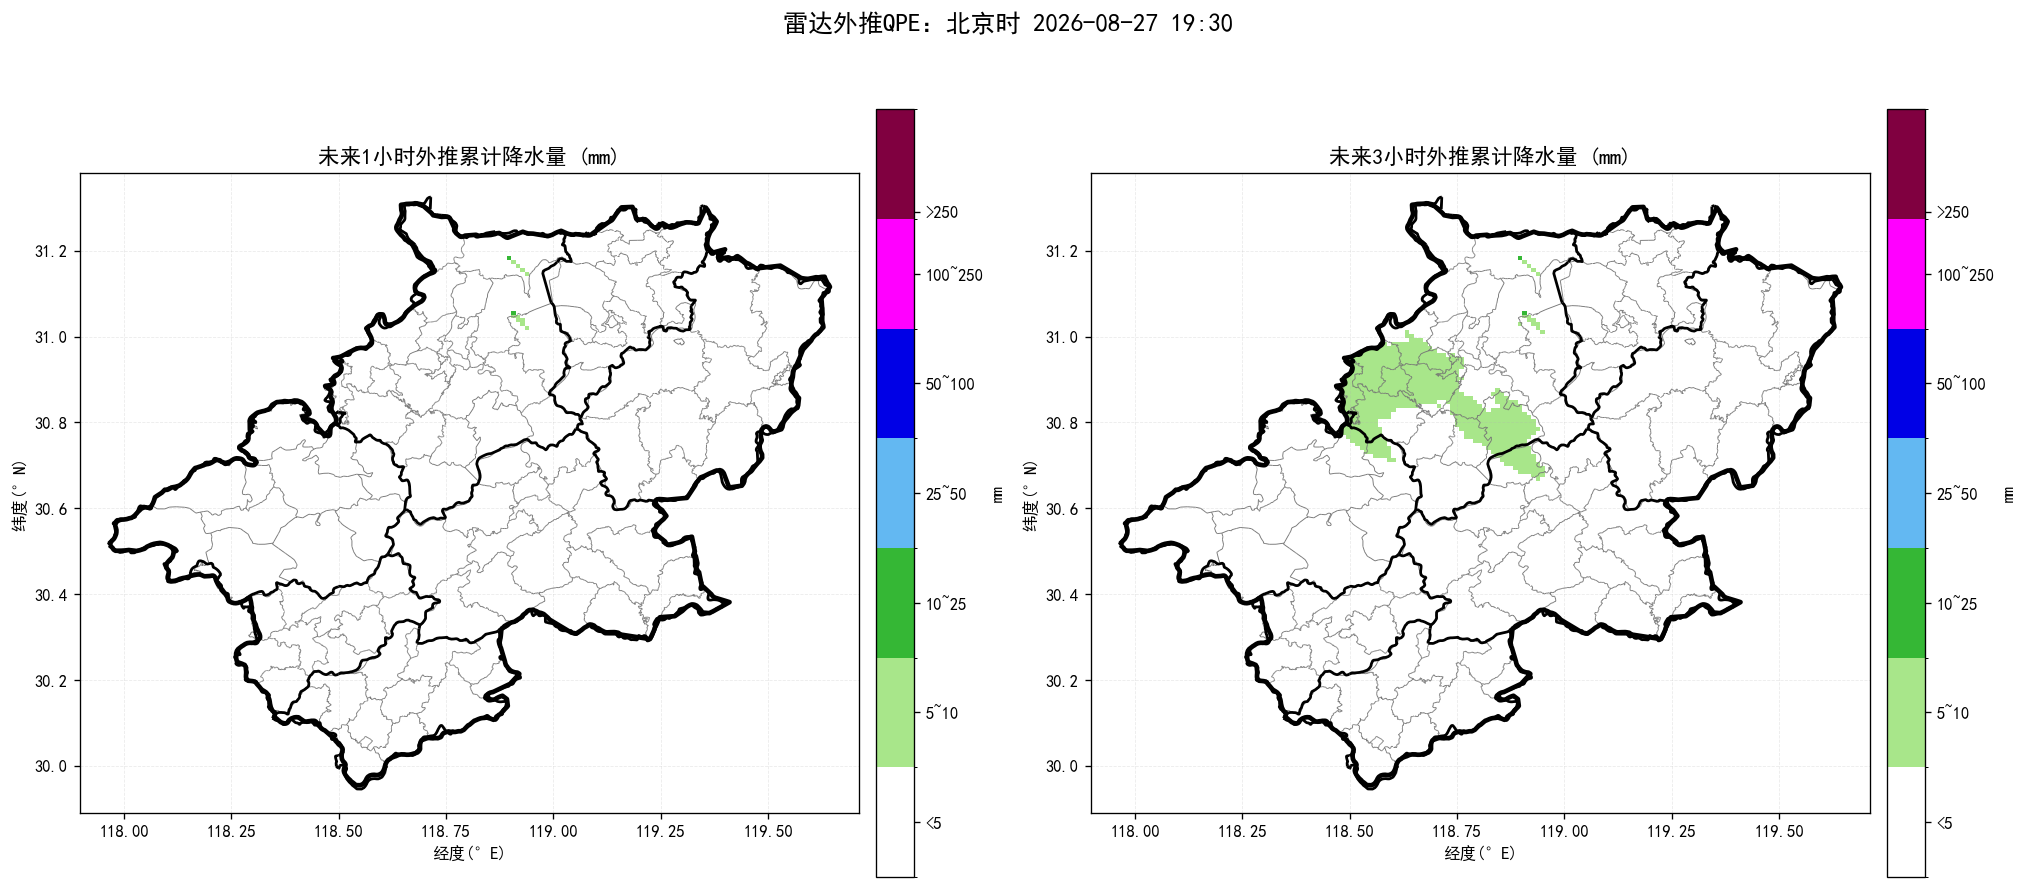
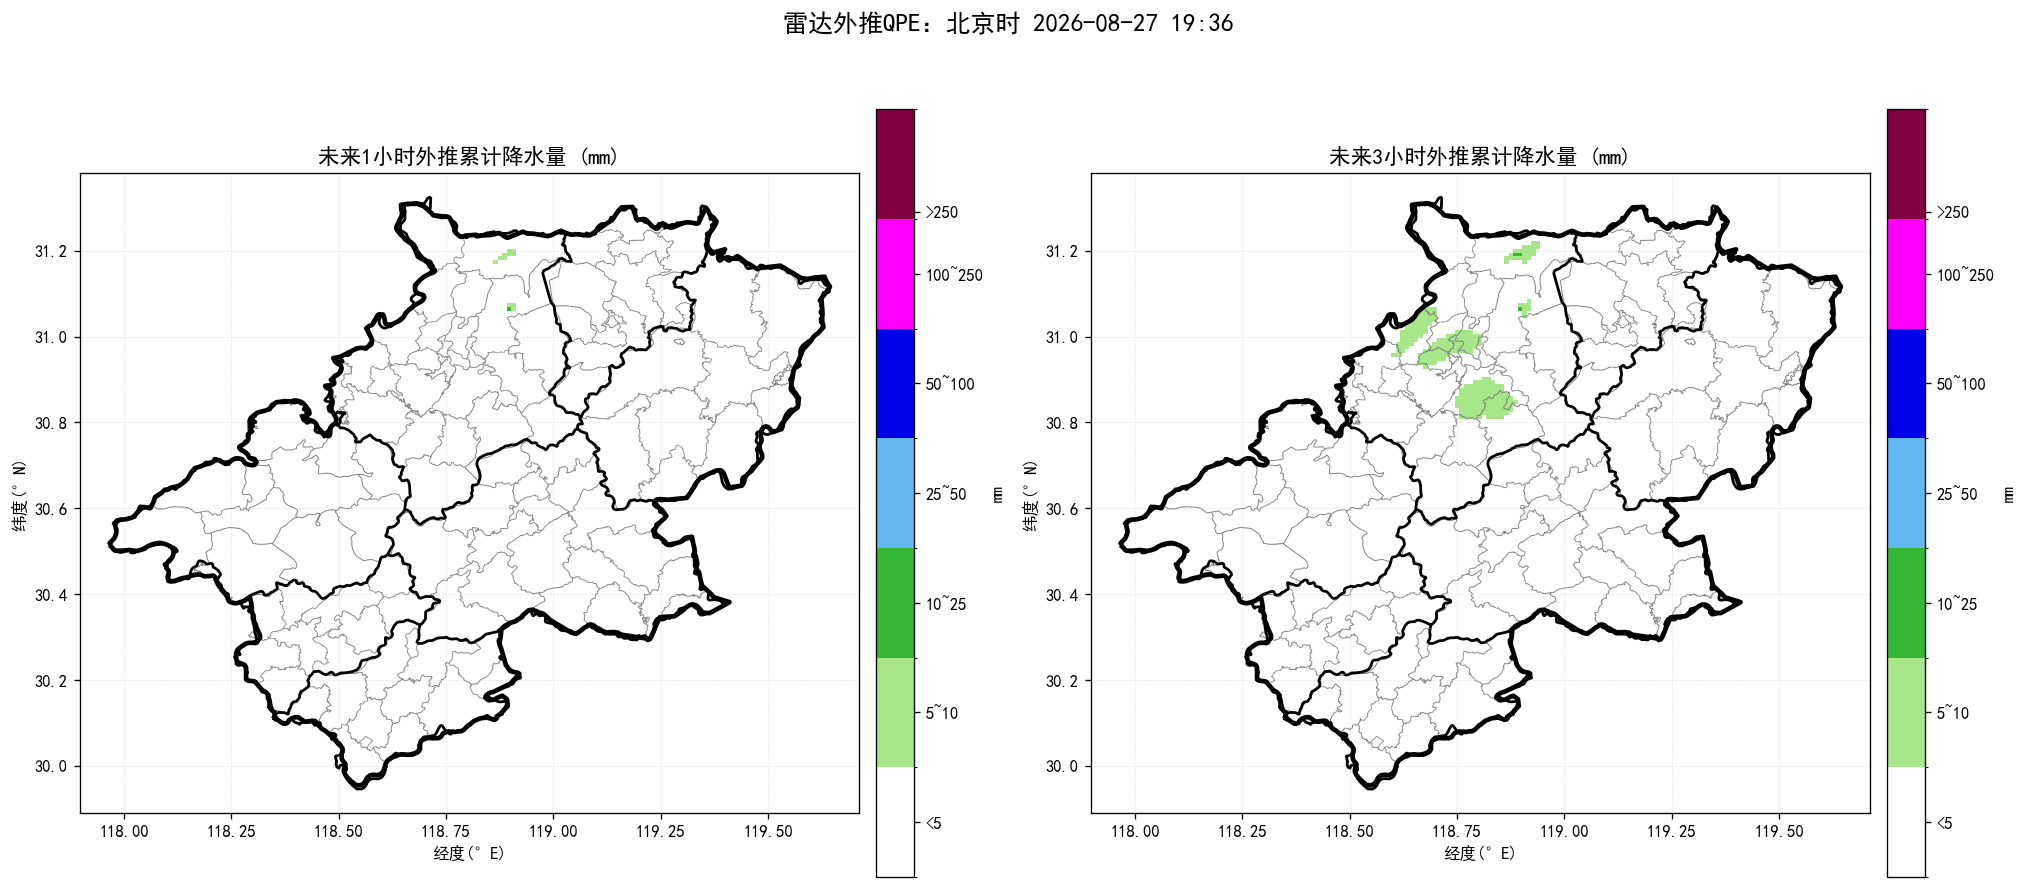
update nowcast products

Changed region(s): [[0.6527, 0.3341, 0.777, 0.5467], [0.7459, 0.3341, 0.777, 0.3645], [0.7459, 0.2733, 0.777, 0.3037]]

diff --git a/index.html b/index.html
@@ -14,14 +14,14 @@ img.product{display:block;width:100%;height:auto;margin:10px auto 26px;border:1p
 .footer{font-size:13px;color:#777;text-align:center;margin-top:30px}
 @media(max-width:700px){.sheet{margin:0;padding:18px 15px}.alert-title{font-size:22px}.county-line{font-size:17px}.prob{font-size:18px}}
 </style></head><body><main class="sheet">
-<div class="time">起报时间：北京时 2026-08-27 19:30</div>
+<div class="time">起报时间：北京时 2026-08-27 19:36</div>
 <div class="alert-title">未来一小时降水量超过 20 毫米的乡镇：</div><div class="county-line">无</div>
 <div class="alert-title">未来三小时降水量超过 50 毫米的乡镇：</div><div class="county-line">无</div>
 <div class="alert-title">未来三小时雷暴大风（组合反射率 > 55 dBZ）的乡镇：</div><div class="county-line">无</div>
-<div class="prob">最大降水量概率预估：宣城市范围内未来三小时降水偏小，最大预报约15.0毫米，暂不进行50/80/100毫米概率预估。</div>
-<div class="section-title">未来降水预报图：</div><img class="product auto-refresh-product" data-src="短临降水预报.png" src="短临降水预报.png?v=20260827193650" alt="未来降水预报图">
-<div class="section-title">未来三小时组合反射率图：</div><img class="product auto-refresh-product" data-src="未来3小时组合反射率.png" src="未来3小时组合反射率.png?v=20260827193650" alt="未来三小时组合反射率图">
-<div class="section-title">未来三小时雷暴大风图：</div><img class="product auto-refresh-product" data-src="未来3小时雷暴大风.png" src="未来3小时雷暴大风.png?v=20260827193650" alt="未来三小时雷暴大风图">
+<div class="prob">最大降水量概率预估：宣城市范围内未来三小时降水偏小，最大预报约12.4毫米，暂不进行50/80/100毫米概率预估。</div>
+<div class="section-title">未来降水预报图：</div><img class="product auto-refresh-product" data-src="短临降水预报.png" src="短临降水预报.png?v=20260827194221" alt="未来降水预报图">
+<div class="section-title">未来三小时组合反射率图：</div><img class="product auto-refresh-product" data-src="未来3小时组合反射率.png" src="未来3小时组合反射率.png?v=20260827194221" alt="未来三小时组合反射率图">
+<div class="section-title">未来三小时雷暴大风图：</div><img class="product auto-refresh-product" data-src="未来3小时雷暴大风.png" src="未来3小时雷暴大风.png?v=20260827194221" alt="未来三小时雷暴大风图">
 <div class="footer">三张产品图每 60 秒自动刷新一次；每次请求自动附加新的URL参数以绕过缓存。</div>
 <script>
 (function() {
